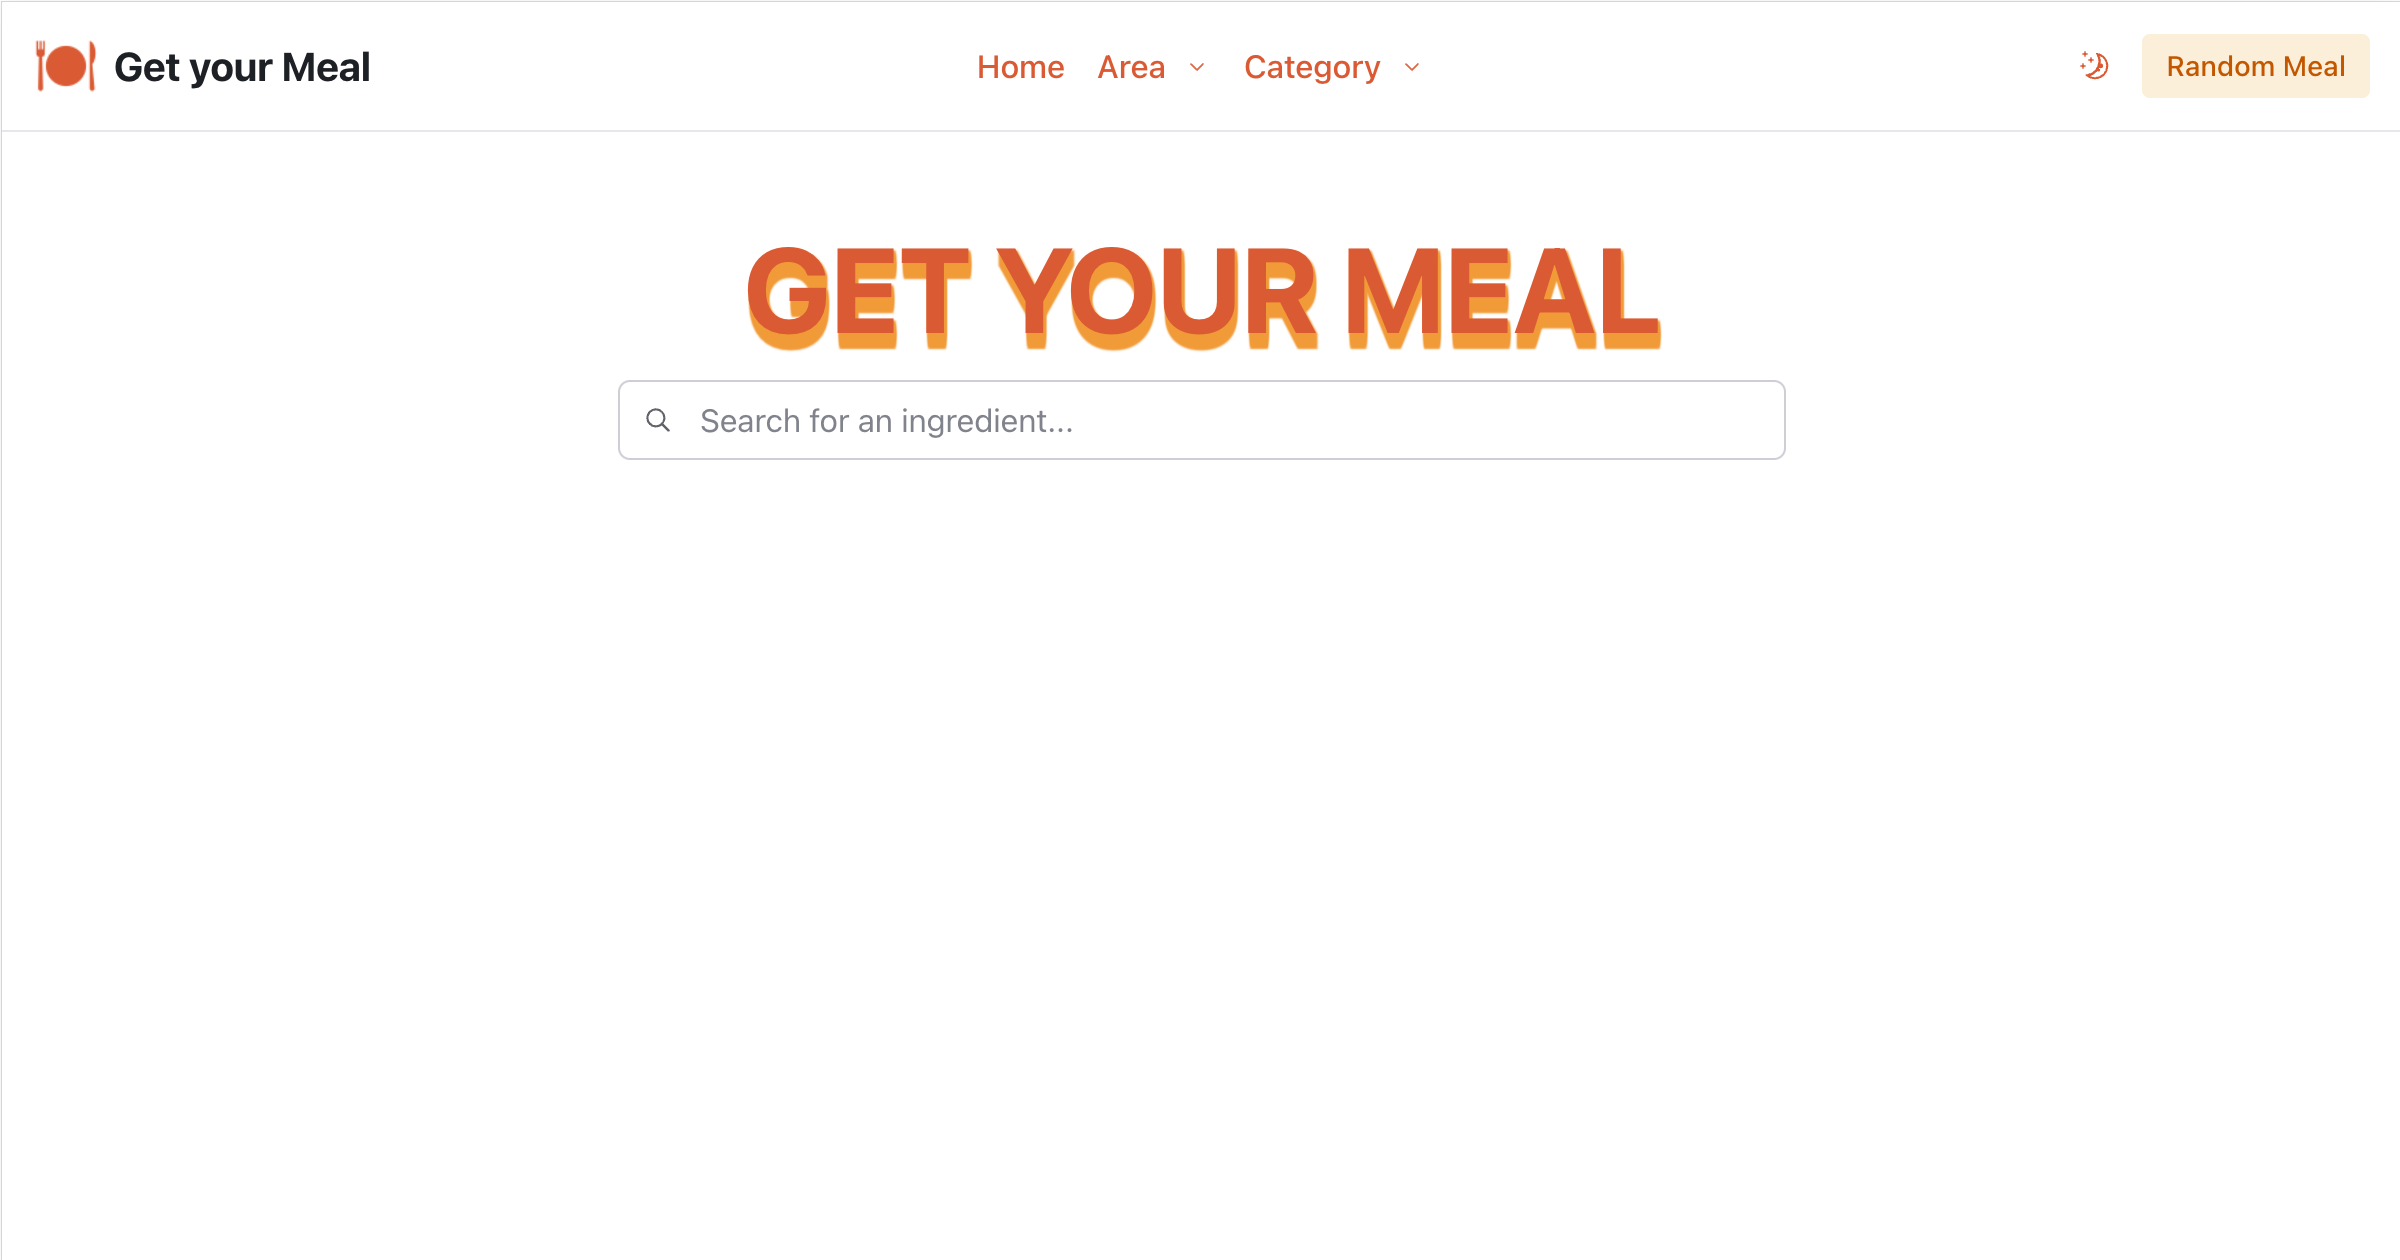
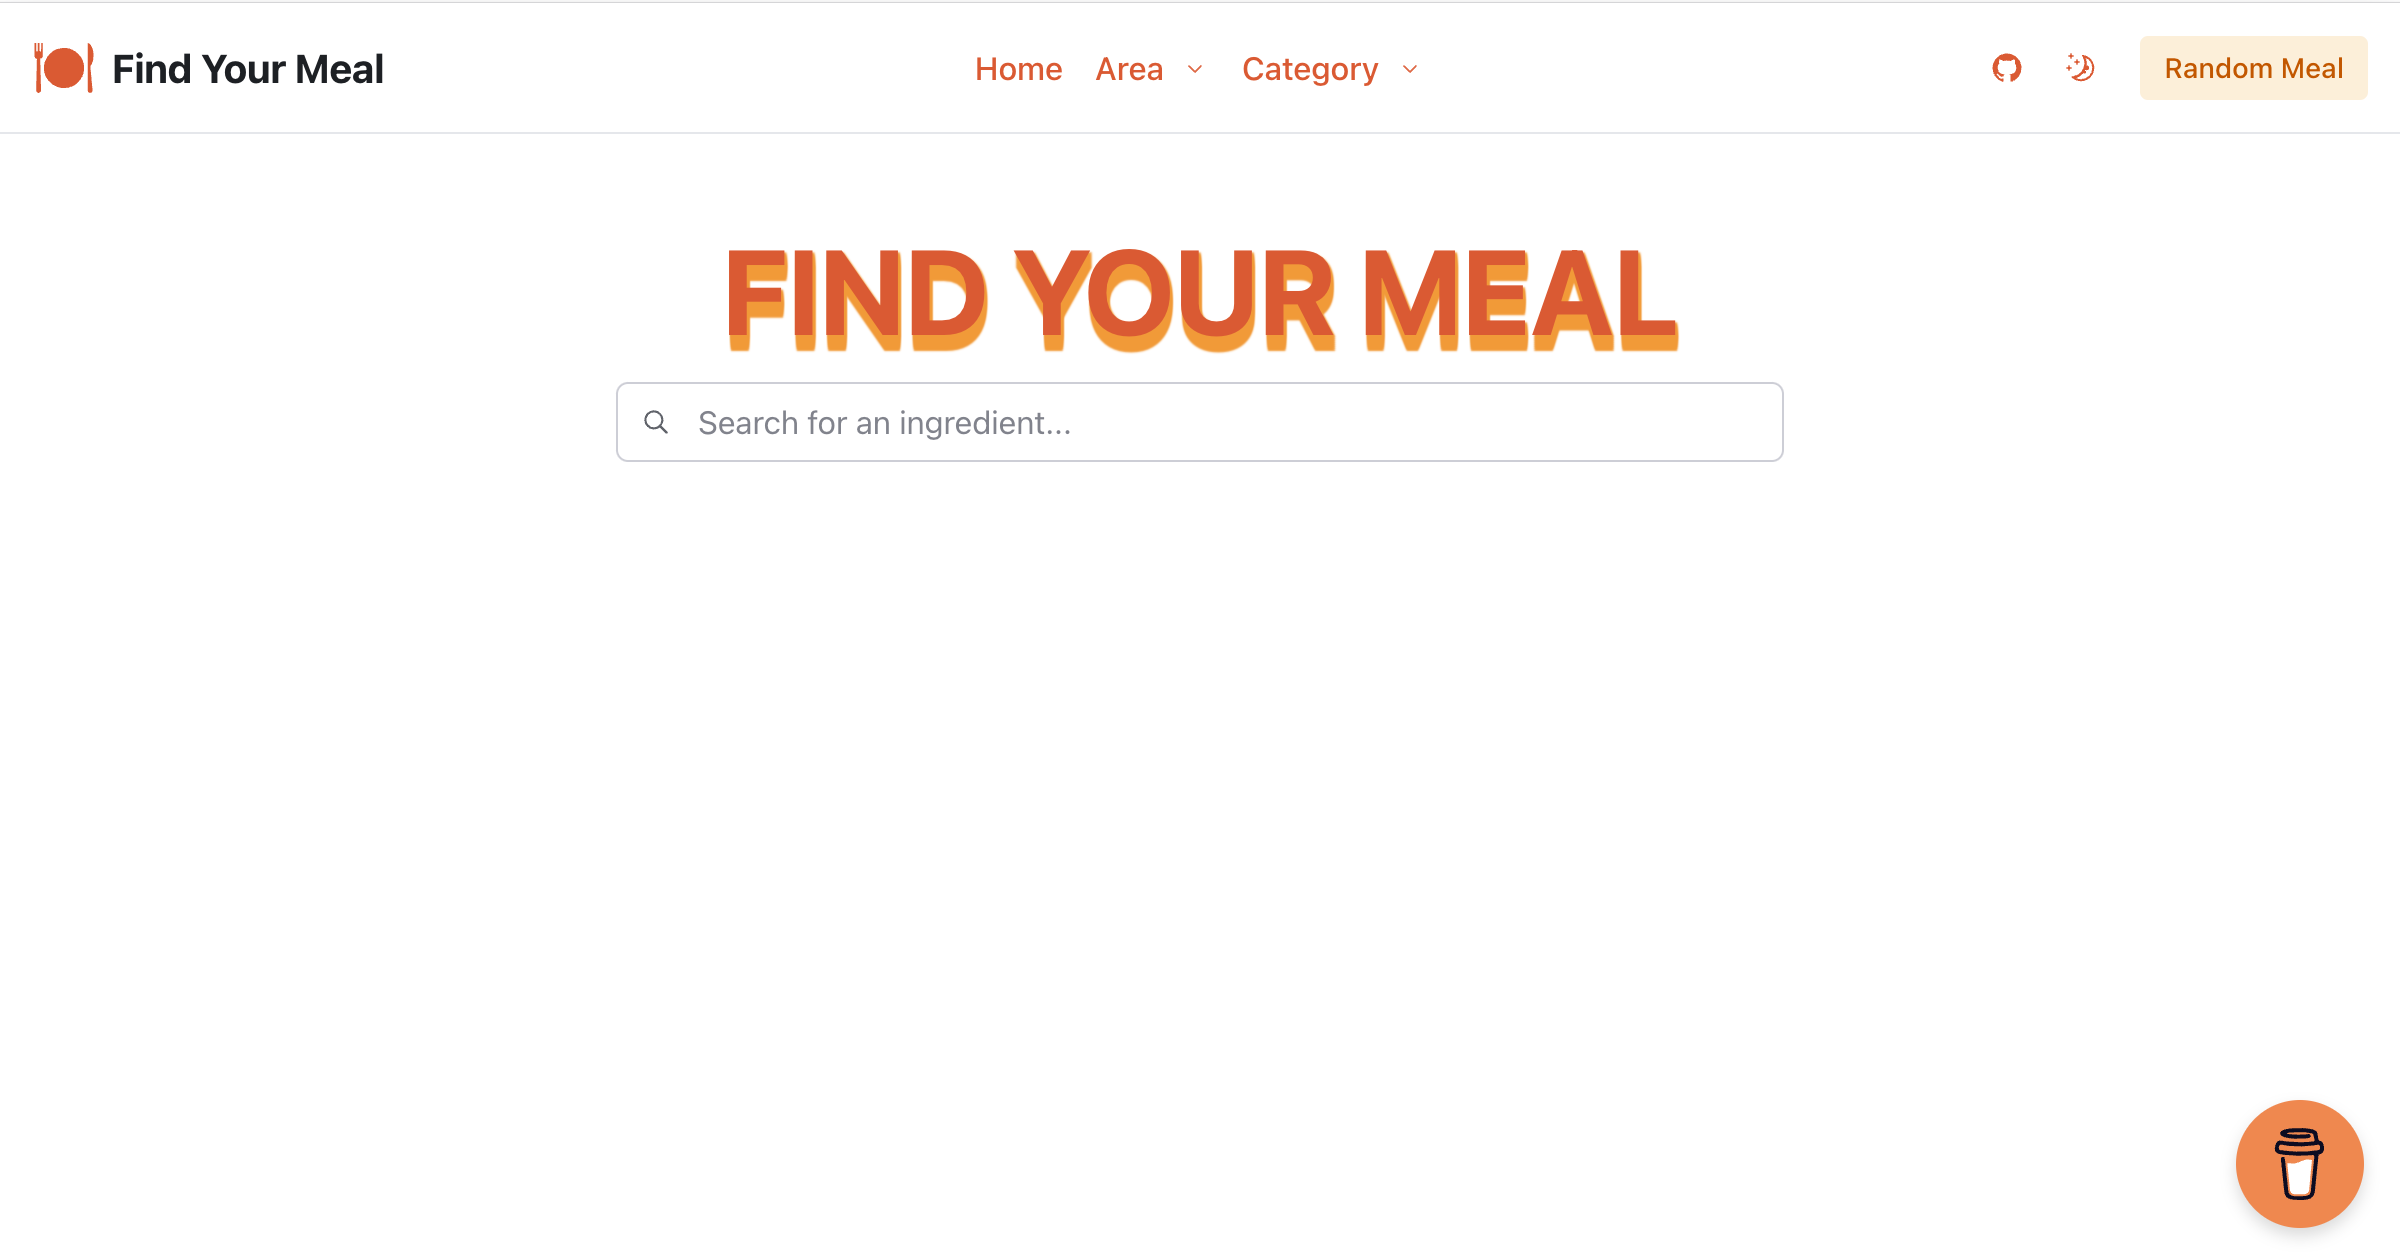
:mag: improve seo

diff --git a/src/components/Header.tsx b/src/components/Header.tsx
@@ -1,7 +1,7 @@
 import { useState, useEffect } from "react";
 import { Link } from "react-router-dom";
 import { Heading, Button, IconButton } from "@radix-ui/themes"
-import { CaretDownIcon, GitHubLogoIcon } from "@radix-ui/react-icons";
+import { CaretDownIcon, GitHubLogoIcon, AvatarIcon } from "@radix-ui/react-icons";
 
 import { getAllAreas, getAllCategories, getRandomMeal } from "../services/mealApi";
 import DropDownMenu from "./DropDownMenu";
@@ -73,6 +73,11 @@ export default function Header() {
         <div className="flex space-x-4 items-center justify-end">
           <div className='hidden sm:flex items-center justify-end space-x-4'>
             <IconButton variant="ghost" className="hover:bg-inherit" aria-label="GitHub Repository">
+              <a href="https://august1.dev/" target="_blank">
+                <AvatarIcon className="w-auto h-18" color="#ec4e20" />
+              </a>
+            </IconButton>
+            <IconButton variant="ghost" className="hover:bg-inherit" aria-label="GitHub Repository">
               <a href="https://github.com/AugustinBriolon/FindYourMeal" target="_blank">
                 <GitHubLogoIcon className="w-auto h-18" color="#ec4e20" />
               </a>
@@ -91,6 +96,11 @@ export default function Header() {
           <DropDownMenu name="Category" items={categories} label="strCategory" />
         </div>
         <div className='flex sm:hidden items-center justify-end space-x-4'>
+          <IconButton variant="ghost" className="hover:bg-inherit" aria-label="GitHub Repository">
+            <a href="https://august1.dev/" target="_blank">
+              <AvatarIcon className="w-auto h-18" color="#ec4e20" />
+            </a>
+          </IconButton>
           <IconButton variant="ghost" className="hover:bg-inherit" aria-label="GitHub Repository">
             <a href="https://github.com/AugustinBriolon/FindYourMeal" target="_blank">
               <GitHubLogoIcon className="w-auto h-18" color="#ec4e20" />

diff --git a/tailwind.config.js b/tailwind.config.js
@@ -30,7 +30,7 @@ export default {
         medium: '18px',
       },
       gridTemplateColumns: {
-        'header': '200px 1fr 200px',
+        'header': '232px 1fr 232px',
         'items': 'repeat(auto-fill, minmax(100px, 1fr))',
         'list': 'repeat(auto-fill, minmax(150px, 1fr))',
       },
